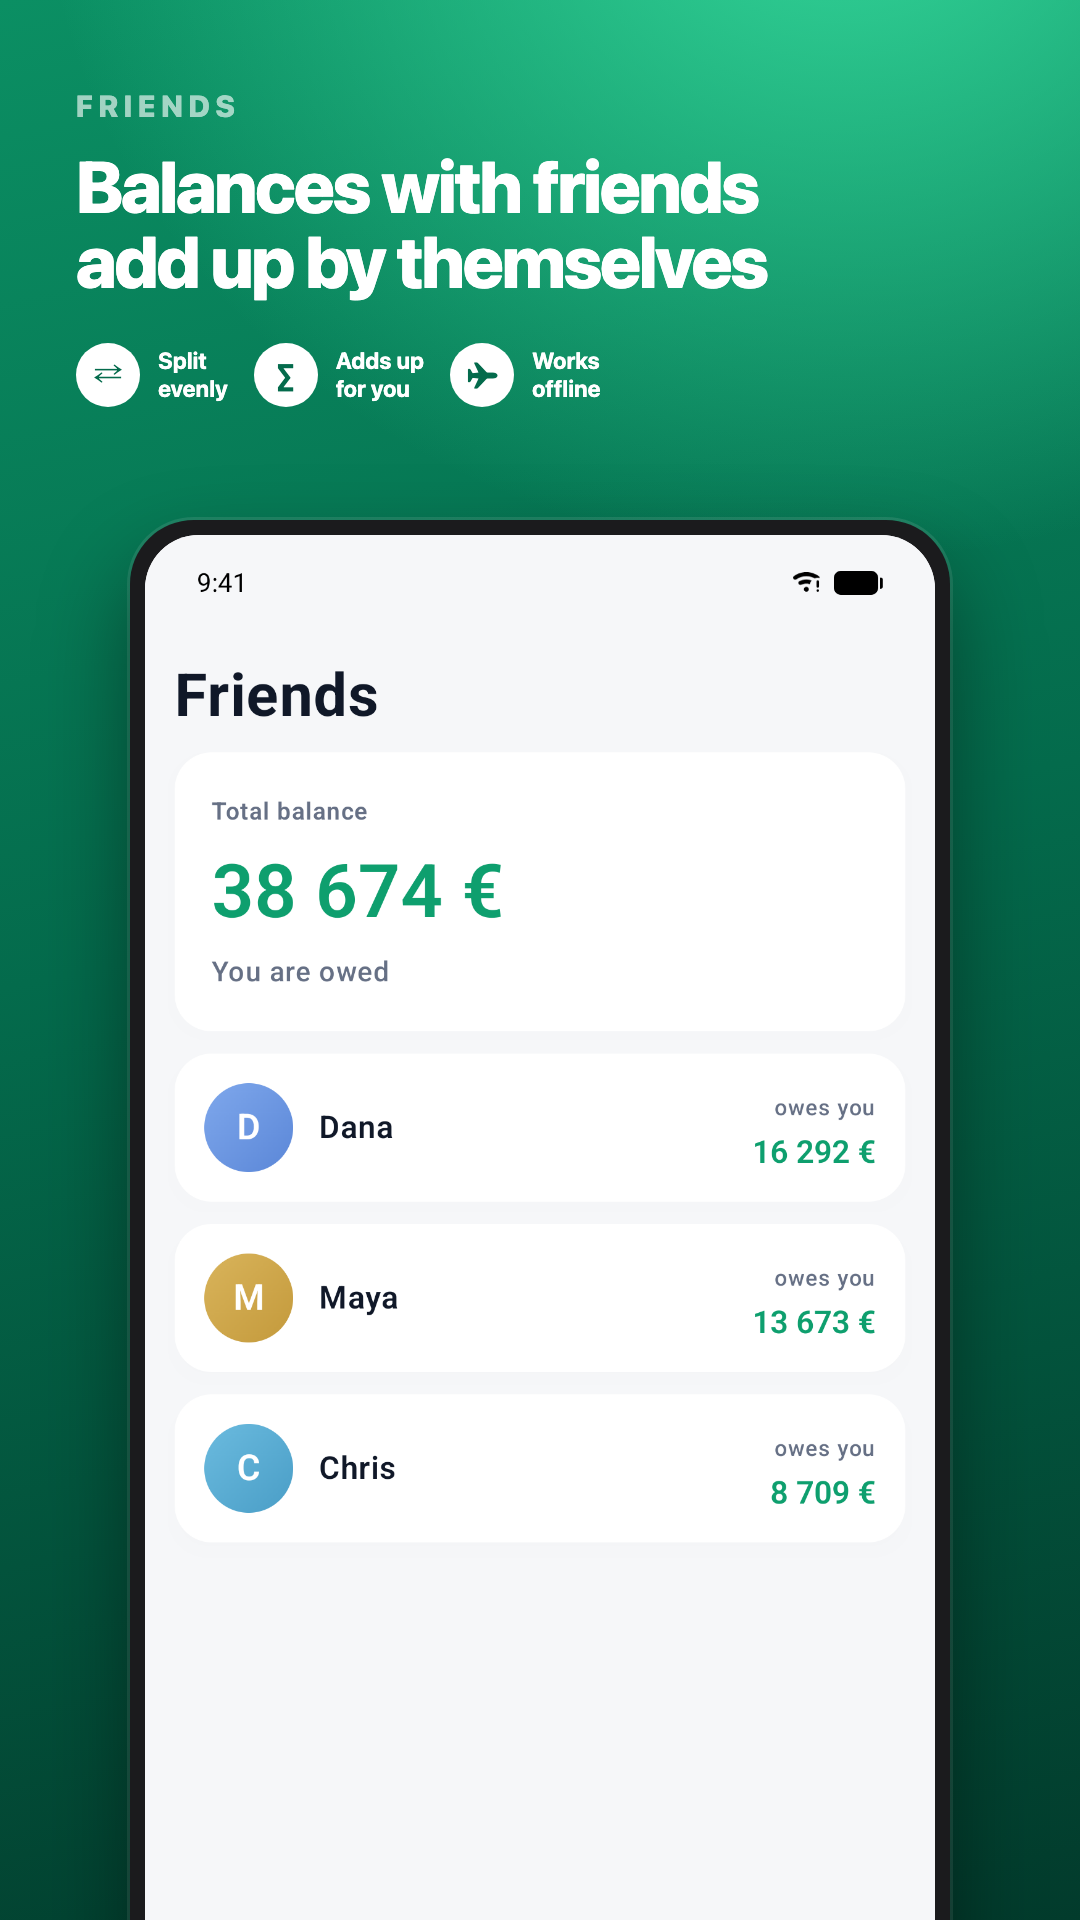
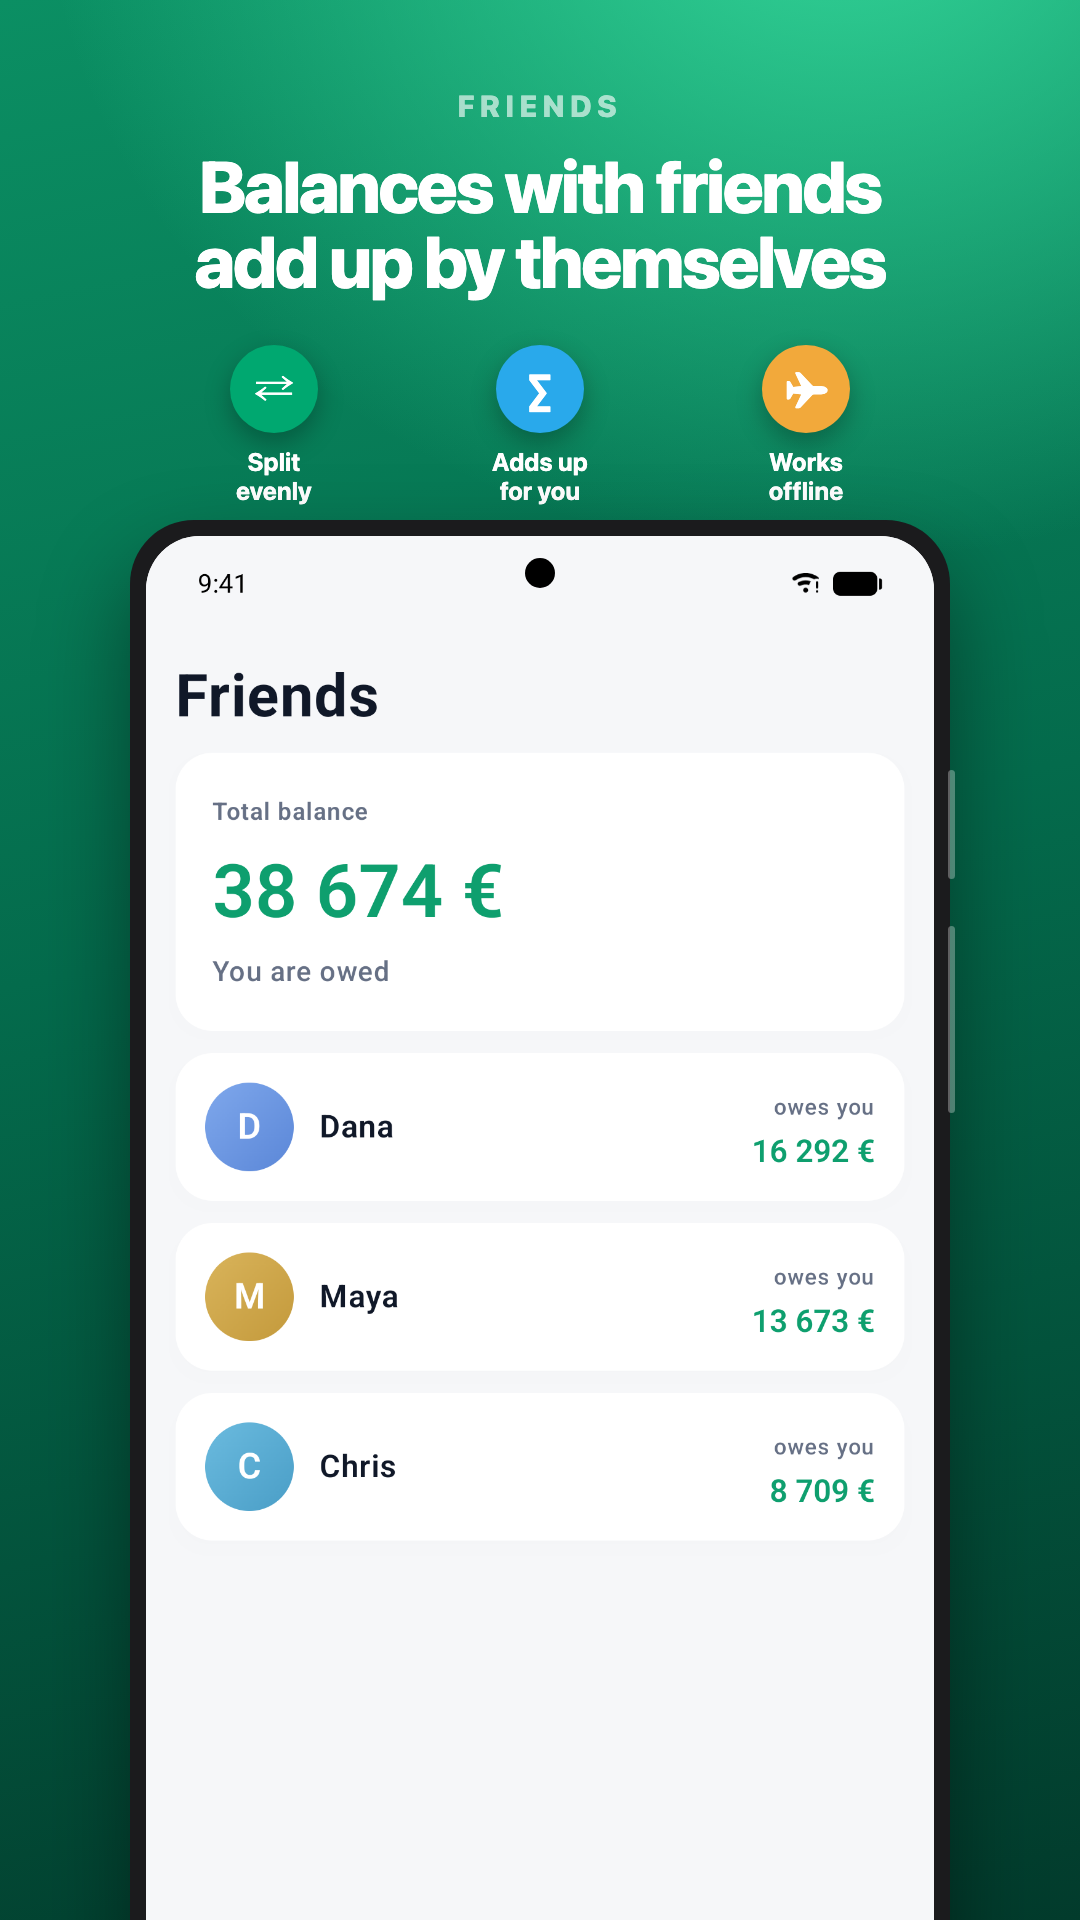
fix: рамка iPhone вместо безликой плашки, чипы по центру и в цвет
Обе платформы получали одинаковую тёмную плашку без острова и кнопок —
на витрине App Store это читалось как андроид. Теперь у iOS титановый кант
с бликами, динамический остров (в снимке симулятора его нет, статус-бар
туда не рисуется) и кнопки на канте; у Android — своя плашка с вырезом
под камеру.

Чипы были мелкими белыми кружками, прижатыми влево под центрованным
заголовком, и сливались в один серо-белый ряд. Стали крупнее, по центру
и в цветах приложения.

Два дефекта съёмки: в русском кадре «Голосом» тап по дальнему чипу
прокручивал ряд и левый край резал слово пополам — теперь берётся первый
чип; в Android-наборе не было погашения и голосового ввода, самых
непохожих на конкурентов экранов.

diff --git a/ios/SplittyUITests/StoreShotsUITests.swift b/ios/SplittyUITests/StoreShotsUITests.swift
@@ -37,14 +37,14 @@ final class StoreShotsUITests: XCTestCase {
             tabGroups: "Группы", tabFriends: "Друзья", tabAdd: "Добавить расход",
             totals: "Итоги", settle: "Погасить", firstRoom: "Поездка в Стамбул",
             balances: "Балансы",
-            rooms: ["Поездка в Стамбул", "Квартира на Тверской", "Дача на выходные"]
+            rooms: ["Дача на выходные", "Квартира на Тверской", "Поездка в Стамбул"]
         ),
         "en": Labels(
             appleLanguage: "en", locale: "en_US",
             tabGroups: "Groups", tabFriends: "Friends", tabAdd: "Add expense",
             totals: "Totals", settle: "Settle up", firstRoom: "Trip to Lisbon",
             balances: "Balances",
-            rooms: ["Trip to Lisbon", "Flat share", "Weekend cabin"]
+            rooms: ["Weekend cabin", "Flat share", "Trip to Lisbon"]
         ),
     ]
 
@@ -122,8 +122,9 @@ final class StoreShotsUITests: XCTestCase {
         print("СКРИНЫ: \(shotsDir.path), кадров: \(index)")
     }
 
-    /// Выбирает любую доступную группу в композере расхода: конкретная не
-    /// важна, а список чипов прокручен и нужной может не быть на экране.
+    /// Выбирает группу в композере расхода. Порядок в [Labels.rooms] — как на
+    /// экране: тап по дальнему чипу прокручивает ряд, и левый край режет слово
+    /// пополам прямо в кадре витрины.
     private func pickAnyGroupChip(_ app: XCUIApplication) {
         for name in labels.rooms {
             let chip = app.buttons[name].firstMatch

diff --git a/marketing/frame-shots.py b/marketing/frame-shots.py
@@ -40,18 +40,20 @@ PROFILES = {
         "out": ROOT / "metadata" / "screenshots-framed",
         "W": 1320, "H": 2868,
         "pad": "132px 96px 0", "eyebrow": 40, "title": 104, "chip_gap": 40,
-        "chip_ico": 92, "chip_font": 33, "chips_top": 74,
+        "chip_ico": 118, "chip_font": 34, "chips_top": 76, "chip_w": 300,
         "device_w": 1040, "device_h": 2200, "device_top": 812,
         "radius_out": 86, "radius_in": 72,
+        "device_style": "ios", "island_w": 250, "island_h": 74, "island_top": 34,
     },
     "play": {
         "raw": ROOT / "metadata" / "screenshots-android",
         "out": ROOT / "metadata" / "screenshots-framed-android",
         "W": 1080, "H": 1920,
         "pad": "88px 76px 0", "eyebrow": 30, "title": 72, "chip_gap": 26,
-        "chip_ico": 64, "chip_font": 23, "chips_top": 44,
+        "chip_ico": 88, "chip_font": 25, "chips_top": 46, "chip_w": 240,
         "device_w": 820, "device_h": 1560, "device_top": 520,
         "radius_out": 64, "radius_in": 54,
+        "device_style": "android", "island_w": 30, "island_h": 30, "island_top": 22,
     },
 }
 
@@ -70,7 +72,7 @@ TEMPLATE = """<!doctype html>
     color: #fff;
     position: relative;
   }
-  .pad { padding: %(PAD)s; }
+  .pad { padding: %(PAD)s; text-align: center; }
   .eyebrow {
     font-size: %(EYEBROW_SIZE)dpx; font-weight: 800; letter-spacing: .18em;
     color: rgba(255,255,255,.62); margin-bottom: 26px;
@@ -79,15 +81,20 @@ TEMPLATE = """<!doctype html>
     font-size: %(TITLE_SIZE)dpx; line-height: 1.04; font-weight: 800; letter-spacing: -.028em;
     white-space: pre-line; text-wrap: balance;
   }
-  .chips { display: flex; gap: %(CHIP_GAP)dpx; margin-top: %(CHIPS_TOP)dpx; }
-  .chip { display: flex; align-items: center; gap: 18px; }
+  /* Чипы по центру и в цвет: белые кружки сливались с текстом в один
+     серо-белый ряд, а прижатые влево спорили с центрованным заголовком. */
+  .chips {
+    display: flex; gap: %(CHIP_GAP)dpx; margin-top: %(CHIPS_TOP)dpx;
+    justify-content: center; align-items: flex-start;
+  }
+  .chip { display: flex; flex-direction: column; align-items: center; gap: 14px; width: %(CHIP_W)dpx; }
   .chip .ico {
     width: %(CHIP_ICO)dpx; height: %(CHIP_ICO)dpx; border-radius: 50%%;
-    background: #fff; color: #046B4C;
     display: flex; align-items: center; justify-content: center;
-    font-size: %(CHIP_ICO_FONT)dpx; font-weight: 700; flex: 0 0 %(CHIP_ICO)dpx;
+    font-size: %(CHIP_ICO_FONT)dpx; font-weight: 700; color: #fff;
+    box-shadow: 0 10px 26px rgba(0,0,0,.28);
   }
-  .chip .txt { font-size: %(CHIP_FONT)dpx; font-weight: 700; line-height: 1.2; }
+  .chip .txt { font-size: %(CHIP_FONT)dpx; font-weight: 700; line-height: 1.18; }
 
   /* Устройство срезано нижней кромкой: кадр показывает, что интерфейс
      продолжается, и не тратит высоту на пустую рамку. */
@@ -95,15 +102,33 @@ TEMPLATE = """<!doctype html>
     position: absolute; left: 50%%; transform: translateX(-50%%);
     top: %(DEVICE_TOP)dpx;
     width: %(DEVICE_W)dpx; height: %(DEVICE_H)dpx;
-    background: #1b1b1d;
     border-radius: %(RADIUS_OUT)dpx;
-    padding: 15px;
-    box-shadow: 0 44px 90px rgba(0,0,0,.42), 0 0 0 3px rgba(255,255,255,.10);
+    padding: 16px;
+    box-shadow: 0 44px 90px rgba(0,0,0,.42);
   }
+  /* Титановый кант iPhone: тёмная основа плюс светлые блики по бокам —
+     плоская чёрная плашка читалась «просто телефоном», а не айфоном. */
+  .device.ios {
+    background:
+      linear-gradient(100deg, #d9d5cf 0%%, #8f8b85 8%%, #45423e 22%%,
+                      #2b2926 50%%, #45423e 78%%, #8f8b85 92%%, #d9d5cf 100%%);
+  }
+  .device.android { background: #1b1b1d; }
   .screen {
     width: 100%%; height: 100%%; border-radius: %(RADIUS_IN)dpx; overflow: hidden;
     background: #F3F4F7; position: relative;
   }
+  /* Динамический остров: в снимке симулятора его нет — статус-бар туда не
+     рисуется, — поэтому кладём поверх экрана. */
+  .island {
+    position: absolute; left: 50%%; transform: translateX(-50%%);
+    top: %(ISLAND_TOP)dpx; width: %(ISLAND_W)dpx; height: %(ISLAND_H)dpx;
+    background: #000; border-radius: %(ISLAND_H)dpx;
+  }
+  /* Кнопки на канте: без них силуэт не читается как телефон. */
+  .btn { position: absolute; background: rgba(255,255,255,.30); border-radius: 4px; }
+  .btn.l { left: -5px; width: 7px; }
+  .btn.r { right: -5px; width: 7px; }
   .screen img { width: 100%%; display: block; }
 </style>
 <div class="pad">
@@ -111,11 +136,30 @@ TEMPLATE = """<!doctype html>
   <h1>%(TITLE)s</h1>
   <div class="chips">%(CHIPS)s</div>
 </div>
-<div class="device"><div class="screen"><img src="%(SHOT)s"></div></div>
+<div class="device %(DEVICE_STYLE)s">
+  %(BUTTONS)s
+  <div class="screen"><img src="%(SHOT)s"><div class="island"></div></div>
+</div>
 """
 
-CHIP = ('<div class="chip"><div class="ico">%(icon)s</div>'
+CHIP = ('<div class="chip"><div class="ico" style="background:%(color)s">%(icon)s</div>'
         '<div class="txt">%(line1)s<br>%(line2)s</div></div>')
+
+# Свой цвет каждому чипу — из палитры приложения: зелёный акцент, синий
+# Telegram, янтарный из аватарок.
+CHIP_COLORS = ["#00A870", "#29A9EB", "#F2A93B"]
+
+# Кнопки на канте: слева беззвучный режим и качелька громкости, справа питание.
+IOS_BUTTONS = (
+    '<div class="btn l" style="top:14%; height:5%"></div>'
+    '<div class="btn l" style="top:23%; height:9%"></div>'
+    '<div class="btn l" style="top:34%; height:9%"></div>'
+    '<div class="btn r" style="top:26%; height:13%"></div>'
+)
+ANDROID_BUTTONS = (
+    '<div class="btn r" style="top:16%; height:7%"></div>'
+    '<div class="btn r" style="top:26%; height:12%"></div>'
+)
 
 
 def render(html: str, out: pathlib.Path, W: int, H: int) -> None:
@@ -165,7 +209,10 @@ def frame(lang: str, profile: str) -> None:
         shutil.rmtree(dst_dir)
     dst_dir.mkdir(parents=True)
 
-    chips = "".join(CHIP % c for c in spec["chips"])
+    chips = "".join(
+        CHIP % dict(c, color=CHIP_COLORS[i % len(CHIP_COLORS)])
+        for i, c in enumerate(spec["chips"])
+    )
     # Кадр ищется по ИМЕНИ ЭКРАНА, а не по имени файла: у iOS и Android разные
     # наборы (в Android-съёмке нет «Записать платёж» и голосового композера) и
     # своя нумерация. Отсутствие кадра — не ошибка, просто его нет.
@@ -181,7 +228,11 @@ def frame(lang: str, profile: str) -> None:
             "EYEBROW_SIZE": cfg["eyebrow"], "TITLE_SIZE": cfg["title"],
             "CHIP_GAP": cfg["chip_gap"], "CHIPS_TOP": cfg["chips_top"],
             "CHIP_ICO": cfg["chip_ico"], "CHIP_ICO_FONT": int(cfg["chip_ico"] * 0.5),
-            "CHIP_FONT": cfg["chip_font"],
+            "CHIP_FONT": cfg["chip_font"], "CHIP_W": cfg["chip_w"],
+            "DEVICE_STYLE": cfg["device_style"],
+            "BUTTONS": IOS_BUTTONS if cfg["device_style"] == "ios" else ANDROID_BUTTONS,
+            "ISLAND_W": cfg["island_w"], "ISLAND_H": cfg["island_h"],
+            "ISLAND_TOP": cfg["island_top"],
             "RADIUS_OUT": cfg["radius_out"], "RADIUS_IN": cfg["radius_in"],
             # Ширина устройства и отступ сверху подобраны так, чтобы под
             # текстом осталась ровно верхняя половина экрана телефона.

diff --git a/marketing/android-shots.py b/marketing/android-shots.py
@@ -25,10 +25,14 @@ PKG = "com.zagir.splitty"
 LABELS = {
     "ru": {"locale": "ru", "email": "shots-ru@splitty.test", "room": "Поездка в Стамбул",
            "groups": "Группы", "friends": "Друзья", "totals": "Итоги",
-           "balances": "Балансы", "disclosure": "войдите по email"},
+           "balances": "Балансы", "disclosure": "войдите по email",
+           "settle": "Погасить",
+           "rooms": ["Дача на выходные", "Квартира на Тверской", "Поездка в Стамбул"]},
     "en": {"locale": "en", "email": "shots-en@splitty.test", "room": "Trip to Lisbon",
            "groups": "Groups", "friends": "Friends", "totals": "Totals",
-           "balances": "Balances", "disclosure": "sign in with email"},
+           "balances": "Balances", "disclosure": "sign in with email",
+           "settle": "Settle up",
+           "rooms": ["Weekend cabin", "Flat share", "Trip to Lisbon"]},
 }
 PASSWORD = "20260806"
 
@@ -137,6 +141,20 @@ def point_at_local_backend():
     time.sleep(1.2)
 
 
+def tap_add_tab():
+    """Тапает центральную вкладку «+»: у неё нет текстовой подписи."""
+    nodes = [n for n in dump().iter("node")
+             if n.get("bounds") and (n.get("content-desc") or "").strip()]
+    # Нижняя панель — самые низкие кликабельные элементы экрана.
+    bottom = sorted(nodes, key=lambda n: center(n)[1])[-5:]
+    bottom.sort(key=lambda n: center(n)[0])
+    if not bottom:
+        raise RuntimeError("не нашёл нижнюю панель")
+    x, y = center(bottom[len(bottom) // 2])
+    sh("shell", "input", "tap", str(x), str(y))
+    time.sleep(1.2)
+
+
 def capture(lang: str):
     cfg = LABELS[lang]
     dst = ROOT / "metadata" / "screenshots-android" / lang
@@ -196,6 +214,13 @@ def capture(lang: str):
     time.sleep(1.5)
     shoot(dst, "group", index)
 
+    # Погашение — с экрана группы: кнопка живёт в шапке, со списка её не видно.
+    if tap_text(cfg["settle"], required=False):
+        time.sleep(1.5)
+        shoot(dst, "settle", index)
+        sh("shell", "input", "keyevent", "4")
+        time.sleep(1.5)
+
     if tap_text(cfg["balances"], required=False):
         time.sleep(1.0)
         shoot(dst, "balances", index)
@@ -209,6 +234,17 @@ def capture(lang: str):
     tap_text(cfg["friends"])
     time.sleep(1.5)
     shoot(dst, "friends", index)
+
+    # Голосовой композер — самый непохожий на конкурентов экран, и в витрине
+    # Play его не хватало. Центральная вкладка «+» подписи не имеет, поэтому
+    # берём среднюю кнопку нижней панели.
+    tap_add_tab()
+    time.sleep(2.0)
+    for room in cfg["rooms"]:
+        if tap_text(room, required=False):
+            break
+    time.sleep(1.5)
+    shoot(dst, "add", index)
 
     print(f"[{lang}] кадров: {index[0]} → {dst.relative_to(ROOT)}")
 
